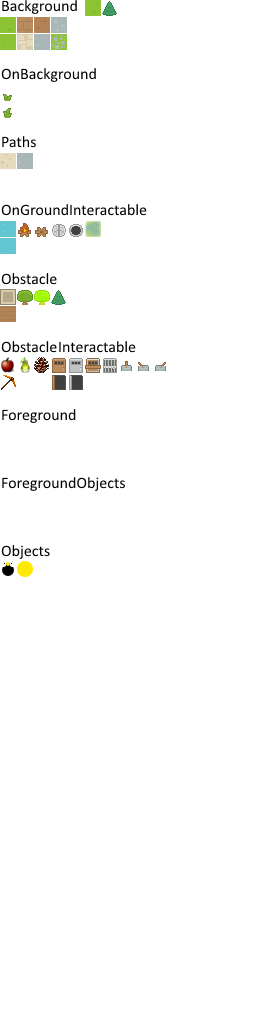
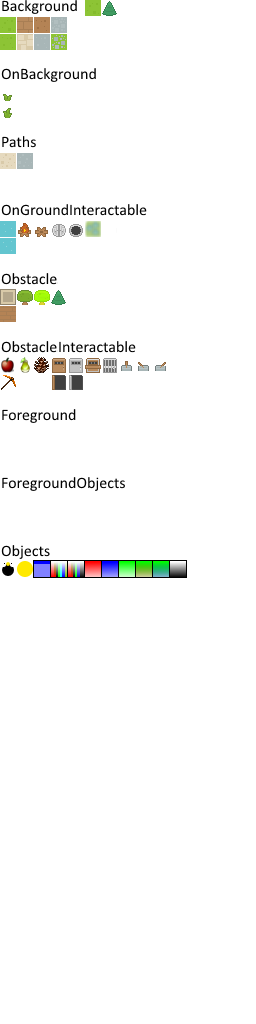
Fixed blue color blending. ArgbToRgbaArray incorrectly set val |= a instead of val = a. After correction, the middle section of the function was without any effect. Added transparent textures to the tileset.

Changed region(s): [[0.125, 0.5312, 0.75, 0.5625]]

diff --git a/ToyWorld/Utils/VRageRIP/Lib/Extensions/ColorExtensions.cs b/ToyWorld/Utils/VRageRIP/Lib/Extensions/ColorExtensions.cs
@@ -5,7 +5,7 @@
         private static int[] _buffer = new int[0];
 
 
-        public static int[] ArgbToRgbaArray(this IntPtr self, int pxCount)
+        public static int[] ArgbToArgbArray(this IntPtr self, int pxCount)
         {
             if (_buffer.Length < pxCount)
                 _buffer = new int[pxCount];
@@ -17,20 +17,6 @@
                 for (int i = 0; i < pxCount; i++)
                 {
                     int val = ptr[i];
-
-                    var a = (byte)(val >> 24);
-                    var r = (byte)(val >> 16);
-                    var g = (byte)(val >> 8);
-                    var b = (byte)val;
-
-
-                    val |= a;
-                    val <<= 8;
-                    val |= r;
-                    val <<= 8;
-                    val |= g;
-                    val <<= 8;
-                    val |= b;
 
                     _buffer[i] = val;
                 }

diff --git a/ToyWorld/Render/RenderObjects/Textures/TilesetTexture.cs b/ToyWorld/Render/RenderObjects/Textures/TilesetTexture.cs
@@ -62,7 +62,7 @@ namespace Render.RenderObjects.Textures
                             BasicTexture texture = new BasicTexture(bmpTextureWithBorders.Width, bmpTextureWithBorders.Height);
 
                             texture.Init(
-                                dataNew.Scan0.ArgbToRgbaArray(dataNew.Width * dataNew.Height),
+                                dataNew.Scan0.ArgbToArgbArray(dataNew.Width * dataNew.Height),
                                 generateMipmap: true);
 
                             texture.SetParameters(TextureMinFilter.LinearMipmapLinear);
